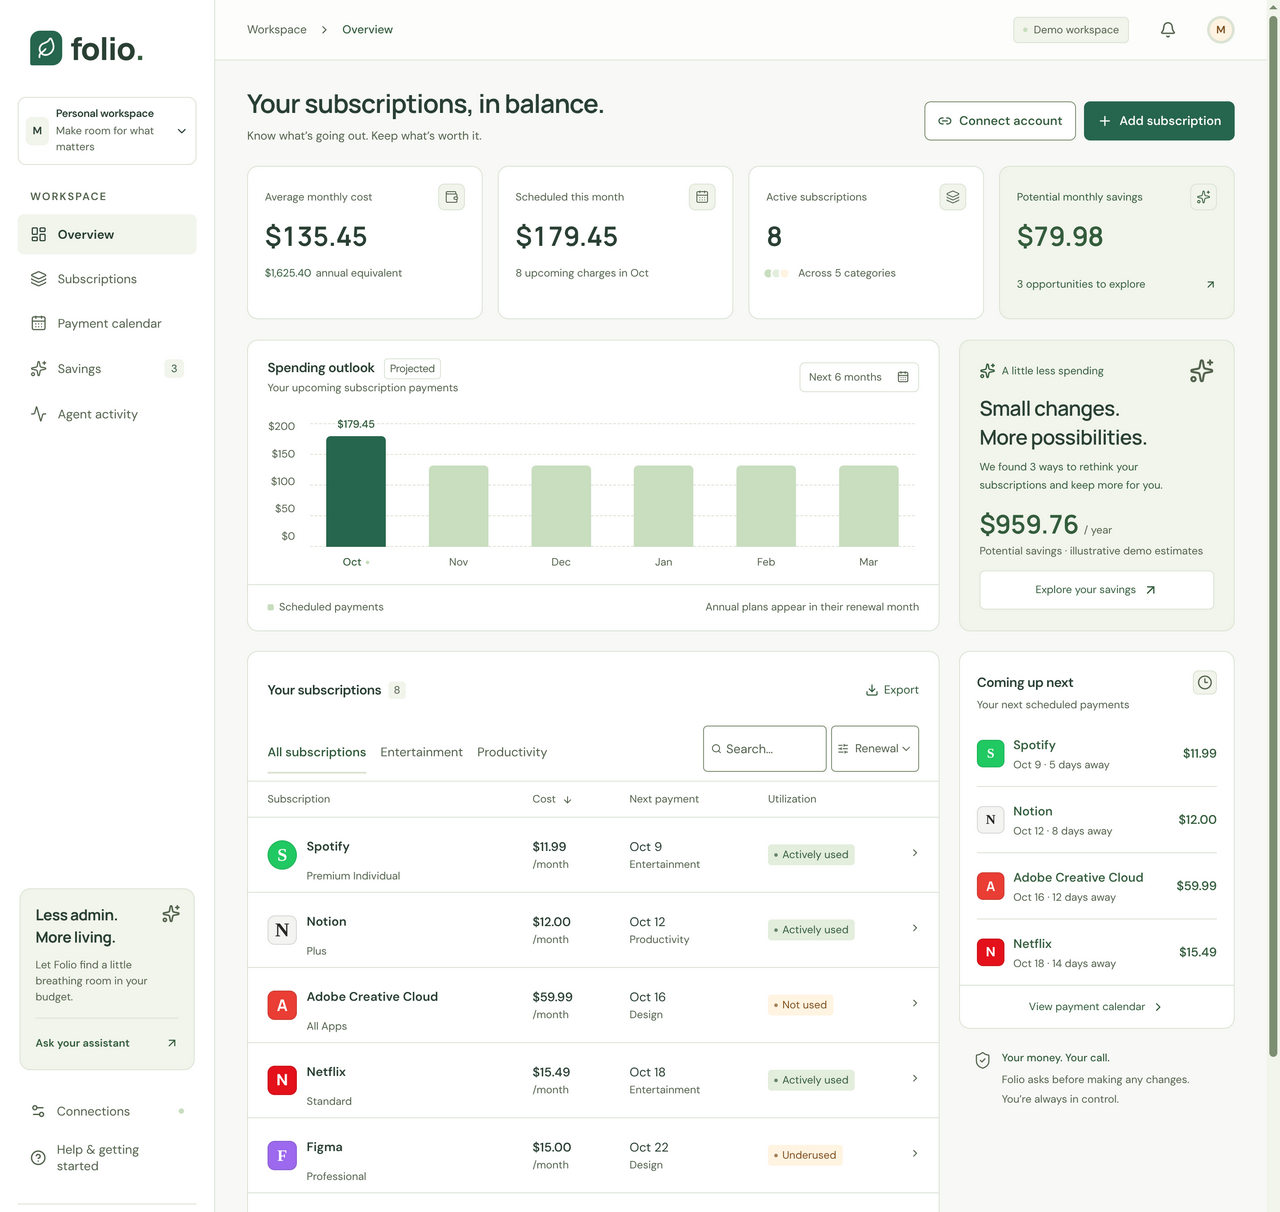
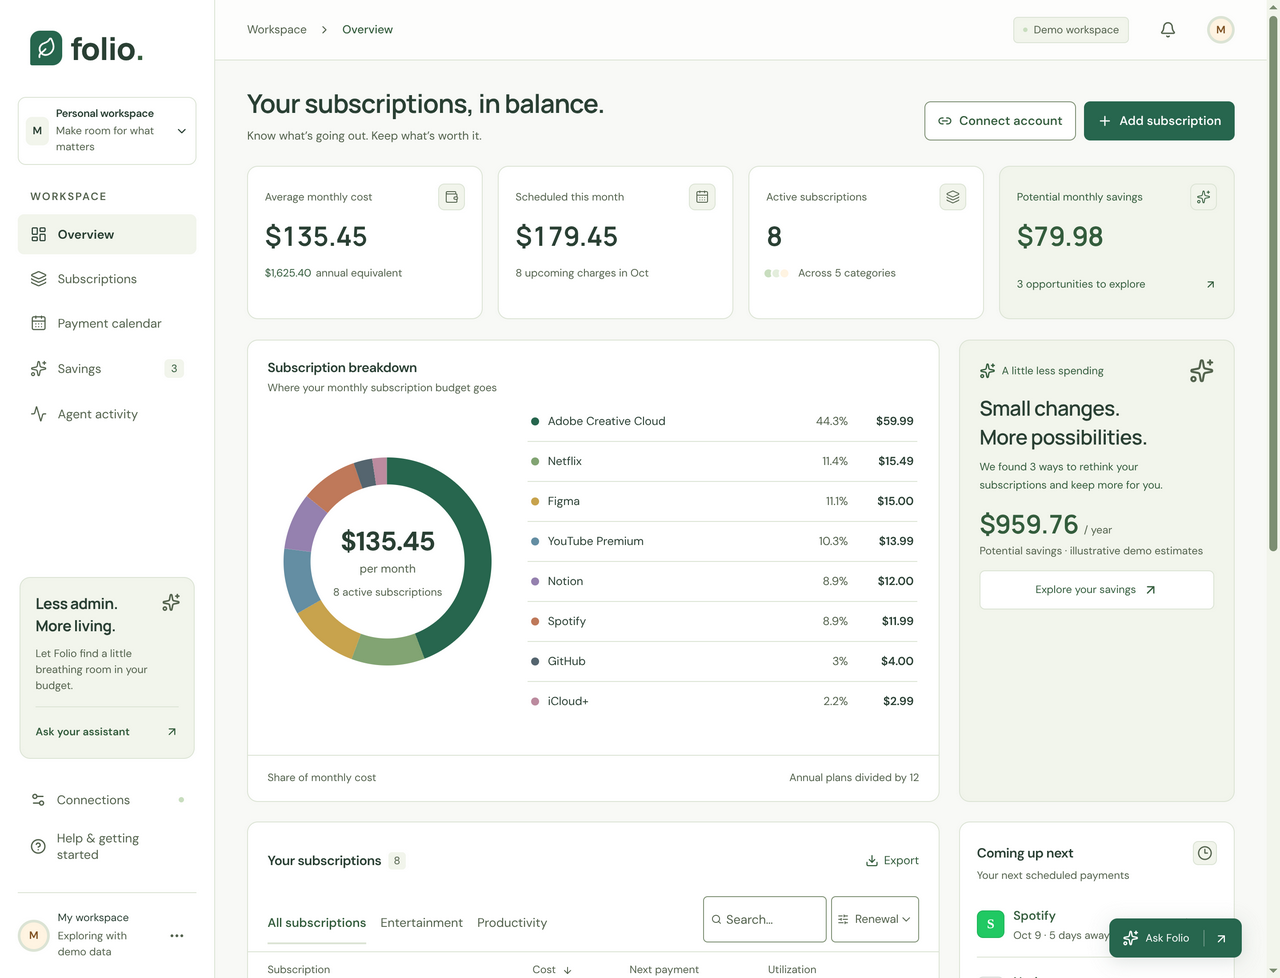
Replace spending bars with subscription composition donut

diff --git a/src/App.tsx b/src/App.tsx
@@ -67,6 +67,7 @@ import {
   ActionProgress,
   useDrawerFocus,
 } from "./components";
+import { SubscriptionComposition } from "./SubscriptionComposition";
 const AgentChat = lazy(() => import("./AgentChat"));
 const NAV = [
   { id: "overview", name: "Overview", icon: LayoutDashboard },
@@ -561,23 +562,17 @@ export default function App() {
                     <section className="panel spending-panel">
                       <div className="panel-heading">
                         <div>
-                          <h2>
-                            Spending outlook{" "}
-                            <span className="muted-tag">Projected</span>
-                          </h2>
-                          <p>Your upcoming subscription payments</p>
+                          <h2>Subscription breakdown</h2>
+                          <p>Where your monthly subscription budget goes</p>
                         </div>
-                        <span className="chart-period">
-                          Next 6 months <CalendarDays size={14} />
-                        </span>
                       </div>
-                      <SpendingChart subscriptions={active} />
-                      <div className="chart-footer">
-                        <span>
-                          <i className="legend-dot" />
-                          Scheduled payments
-                        </span>
-                        <span>Annual plans appear in their renewal month</span>
+                      <SubscriptionComposition
+                        subscriptions={active}
+                        onSelect={setSelected}
+                      />
+                      <div className="chart-footer composition-footer">
+                        <span>Share of monthly cost</span>
+                        <span>Annual plans divided by 12</span>
                       </div>
                     </section>
                     <section className="savings-spotlight">
@@ -1387,64 +1382,6 @@ function Metric({
       <div className="metric-value">{value}</div>
       <div className="metric-detail">{detail}</div>
     </section>
-  );
-}
-function SpendingChart({ subscriptions }: { subscriptions: Subscription[] }) {
-  const months = Array.from({ length: 6 }, (_, i) => {
-    const date = new Date();
-    date.setDate(1);
-    date.setMonth(date.getMonth() + i);
-    const key = date.toISOString().slice(0, 7);
-    return {
-      key,
-      label: monthName(date, true),
-      total: subscriptions.reduce(
-        (sum, s) => sum + (billingInMonth(s, key) ? s.price : 0),
-        0,
-      ),
-    };
-  });
-  const max = Math.max(
-    100,
-    Math.ceil(Math.max(...months.map((m) => m.total)) / 50) * 50,
-  );
-  return (
-    <div className="spending-chart">
-      <div className="chart-y-axis">
-        {[1, 0.75, 0.5, 0.25, 0].map((n) => (
-          <span key={n}>${Math.round(max * n)}</span>
-        ))}
-      </div>
-      <div className="chart-plot">
-        <div className="grid-lines">
-          {[0, 1, 2, 3, 4].map((n) => (
-            <i key={n} />
-          ))}
-        </div>
-        <div className="chart-bars">
-          {months.map((m, i) => (
-            <div className="bar-column" key={m.key}>
-              <div
-                className={`bar ${i === 0 ? "current" : ""}`}
-                style={{ height: `${Math.max(1, (m.total / max) * 100)}%` }}
-                role="img"
-                tabIndex={0}
-                aria-label={`${m.label}: ${money(m.total)} scheduled`}
-              >
-                <span className="bar-tooltip">{money(m.total)}</span>
-                {i === 0 && (
-                  <span className="bar-top-label">{money(m.total)}</span>
-                )}
-              </div>
-              <span className={`bar-month ${i === 0 ? "current" : ""}`}>
-                {m.label}
-                {i === 0 && <i />}
-              </span>
-            </div>
-          ))}
-        </div>
-      </div>
-    </div>
   );
 }
 function SubscriptionForm({

diff --git a/src/SubscriptionComposition.tsx b/src/SubscriptionComposition.tsx
@@ -1,0 +1,108 @@
+import { useState } from "react";
+import type { Subscription } from "../shared/types";
+import { money, monthly } from "../shared/domain";
+
+export function SubscriptionComposition({
+  subscriptions,
+  onSelect,
+}: {
+  subscriptions: Subscription[];
+  onSelect: (subscription: Subscription) => void;
+}) {
+  const [hovered, setHovered] = useState<string | null>(null);
+  const [focused, setFocused] = useState<string | null>(null);
+  const highlighted = hovered ?? focused;
+  const entries = subscriptions
+    .map((subscription) => ({ subscription, amount: monthly(subscription) }))
+    .sort((a, b) => b.amount - a.amount);
+  const total = entries.reduce((sum, entry) => sum + entry.amount, 0);
+  let offset = 0;
+  const slices = entries.map((entry, index) => {
+    const share = total > 0 ? entry.amount / total : 0;
+    const slice = {
+      ...entry,
+      share,
+      offset,
+      color: `var(--composition-${(index % 8) + 1})`,
+    };
+    offset += share * 100;
+    return slice;
+  });
+  const percent = (share: number) =>
+    share > 0 && share < 0.001
+      ? "<0.1%"
+      : new Intl.NumberFormat("en-US", {
+          style: "percent",
+          maximumFractionDigits: 1,
+        }).format(share);
+
+  return (
+    <div className="composition">
+      <div className="composition-visual">
+        <svg viewBox="0 0 240 240" aria-hidden="true">
+          <circle className="composition-track" cx="120" cy="120" r="94" />
+          {slices
+            .filter((slice) => slice.share > 0)
+            .map((slice) => (
+              <circle
+                key={slice.subscription.id}
+                cx="120"
+                cy="120"
+                r="94"
+                pathLength="100"
+                fill="none"
+                stroke={slice.color}
+                strokeWidth="28"
+                strokeDasharray={`${slice.share * 100} ${100 - slice.share * 100}`}
+                strokeDashoffset={-slice.offset}
+                transform="rotate(-90 120 120)"
+                opacity={
+                  highlighted && highlighted !== slice.subscription.id
+                    ? 0.25
+                    : 1
+                }
+              />
+            ))}
+        </svg>
+        <div className="composition-total">
+          <strong>{money(total)}</strong>
+          <span>per month</span>
+          <small>{subscriptions.length} active subscriptions</small>
+        </div>
+      </div>
+      {entries.length ? (
+        <ul
+          className="composition-legend"
+          aria-label="Subscriptions by share of monthly cost"
+        >
+          {slices.map(({ subscription, amount, share, color }) => (
+            <li key={subscription.id}>
+              <button
+                type="button"
+                onClick={() => onSelect(subscription)}
+                onMouseEnter={() => setHovered(subscription.id)}
+                onMouseLeave={() => setHovered(null)}
+                onFocus={() => setFocused(subscription.id)}
+                onBlur={() => setFocused(null)}
+                aria-label={`${subscription.name}: ${money(amount)} per month, ${percent(share)} of total. View subscription.`}
+              >
+                <span
+                  className="composition-swatch"
+                  style={{ backgroundColor: color }}
+                  aria-hidden="true"
+                />
+                <span className="composition-name">{subscription.name}</span>
+                <span className="composition-share">{percent(share)}</span>
+                <strong>{money(amount)}</strong>
+              </button>
+            </li>
+          ))}
+        </ul>
+      ) : (
+        <p className="composition-empty">
+          Add a subscription to see where your monthly total goes.
+        </p>
+      )}
+    </div>
+  );
+}

diff --git a/src/styles.css b/src/styles.css
@@ -3982,3 +3982,140 @@ td {
 .sort-box select {
   max-width: 10rem;
 }
+
+/* Monthly cost composition pairs a visual overview with exact, operable values. */
+.composition {
+  --composition-1: #22664d;
+  --composition-2: #83a574;
+  --composition-3: #c9a44c;
+  --composition-4: #648fa4;
+  --composition-5: #9682b0;
+  --composition-6: #c07a5a;
+  --composition-7: #546570;
+  --composition-8: #bd8ca0;
+  display: grid;
+  grid-template-columns: minmax(180px, 0.85fr) minmax(0, 1.4fr);
+  align-items: center;
+  gap: 24px;
+  padding: 8px 24px 24px;
+}
+.composition-visual {
+  position: relative;
+  width: 100%;
+  max-width: 260px;
+  margin-inline: auto;
+}
+.composition-visual svg {
+  display: block;
+  width: 100%;
+  height: auto;
+}
+.composition-track {
+  fill: none;
+  stroke: var(--surface-subtle);
+  stroke-width: 28;
+}
+.composition-total {
+  position: absolute;
+  inset: 0;
+  display: flex;
+  flex-direction: column;
+  align-items: center;
+  justify-content: center;
+  text-align: center;
+  gap: 3px;
+  pointer-events: none;
+  font-variant-numeric: tabular-nums;
+}
+.composition-total strong {
+  font-size: clamp(1.25rem, 2.2vw, 1.875rem);
+  letter-spacing: -0.025em;
+}
+.composition-total span {
+  color: var(--text-muted);
+  font-size: 0.8125rem;
+}
+.composition-total small {
+  color: var(--text-muted);
+  font-size: 0.75rem;
+  margin-top: 7px;
+  max-width: 60%;
+}
+.composition-legend {
+  list-style: none;
+  margin: 0;
+  padding: 0;
+  min-width: 0;
+}
+.composition-legend button {
+  width: 100%;
+  min-height: 44px;
+  display: grid;
+  grid-template-columns: 9px minmax(0, 1fr) 3.3rem 4rem;
+  align-items: center;
+  gap: 10px;
+  padding: 8px 4px;
+  background: transparent;
+  border: 0;
+  border-radius: 5px;
+  color: var(--text);
+  text-align: left;
+  font-size: 0.8125rem;
+}
+.composition-legend button:hover,
+.composition-legend button:focus-visible {
+  background: var(--surface-subtle);
+}
+.composition-legend li + li {
+  border-top: 1px solid var(--border);
+}
+.composition-swatch {
+  width: 9px;
+  height: 9px;
+  border-radius: 50%;
+}
+.composition-name {
+  overflow-wrap: anywhere;
+  line-height: 1.4;
+}
+.composition-share {
+  text-align: right;
+  color: var(--text-muted);
+  font-variant-numeric: tabular-nums;
+}
+.composition-legend strong {
+  text-align: right;
+  font-weight: 600;
+  font-variant-numeric: tabular-nums;
+  overflow-wrap: anywhere;
+}
+.composition-empty {
+  color: var(--text-muted);
+  font-size: 0.875rem;
+  line-height: 1.6;
+}
+.composition-footer {
+  gap: 8px 16px;
+  flex-wrap: wrap;
+}
+@media (max-width: 1200px) {
+  .composition {
+    grid-template-columns: 1fr;
+    gap: 12px;
+  }
+  .composition-visual {
+    max-width: 240px;
+  }
+}
+@media (max-width: 760px) {
+  .composition {
+    padding: 4px 16px 20px;
+  }
+  .composition-total strong {
+    font-size: 1.75rem;
+  }
+  .composition-legend button {
+    grid-template-columns: 9px minmax(0, 1fr) 3rem 3.6rem;
+    gap: 8px;
+  }
+}

diff --git a/README.md b/README.md
@@ -26,7 +26,7 @@ The app creates an isolated workspace for each browser using a random HttpOnly, 
 
 ## Features
 
-- Dashboard with monthly equivalent costs, scheduled monthly charges, six-month payment projections, and savings opportunities.
+- Dashboard with monthly equivalent costs, scheduled monthly charges, an interactive subscription-composition donut, and savings opportunities.
 - Subscription create/edit, search, sorting, category filtering, CSV export, and payment calendar.
 - Card CSV import with grouped candidates, editable review, currency validation, and duplicate detection.
 - Receipt text / `.eml` extraction through the gateway, plus optional Gmail read-only OAuth.
@@ -68,7 +68,7 @@ For Gmail, enable the Gmail API in your Google Cloud project, configure an OAuth
 
 - **All write actions are sandbox-only.** They operate isolated merchant fixtures loaded into real Kernel browsers. They do not cancel or migrate a real service. Test-plan prices are explicitly illustrative. The runner is generic over visible button names, but real-world merchant compatibility is not claimed.
 - Real account inspection is read-only from the agent's side. The user signs in and navigates to a usage page in the live browser, then reviews the extracted draft. Sessions expire and are closed after saving.
-- Payment projections are based on saved billing schedules, not confirmed bank transactions. Bank aggregation is not implemented; use CSV imports.
+- Scheduled payments are based on saved billing schedules, not confirmed bank transactions. Bank aggregation is not implemented; use CSV imports.
 - The usage companion sees only browser visits in the selected time window. Mobile use, offline use, shared accounts, data dependencies, and subscription benefits require other evidence. Missing/stale evidence never automatically becomes zero usage.
 - Cancellation savings are hypothetical. Non-demo downgrade savings remain unknown until actual plan pricing is verified.
 - Receipt `.eml` import handles text content via the model; complex MIME/attachment extraction is not implemented.

diff --git a/docs/verification.md b/docs/verification.md
@@ -16,3 +16,5 @@ Verified on October 4, 2026.
 - Private preview access gate kept the shared test preview behind a session token. No credentials or private account data appear in screenshots.
 
 Gmail OAuth was not exercised because Google OAuth app credentials were not supplied. No real merchant cancellation or migration was performed. Real account authentication remains a user action in the isolated browser; all tested execution used synthetic accounts and records.
+
+UI update: replaced the monthly bar projection with a composition donut, sorted by monthly equivalent cost. Verified the $135.45 sample total, GitHub annual normalization ($48/year to $4/month), 44px legend controls, opening subscription details, and 390px/1440px layouts. The chart panel had no automated axe violations; TypeScript and the production build passed.
